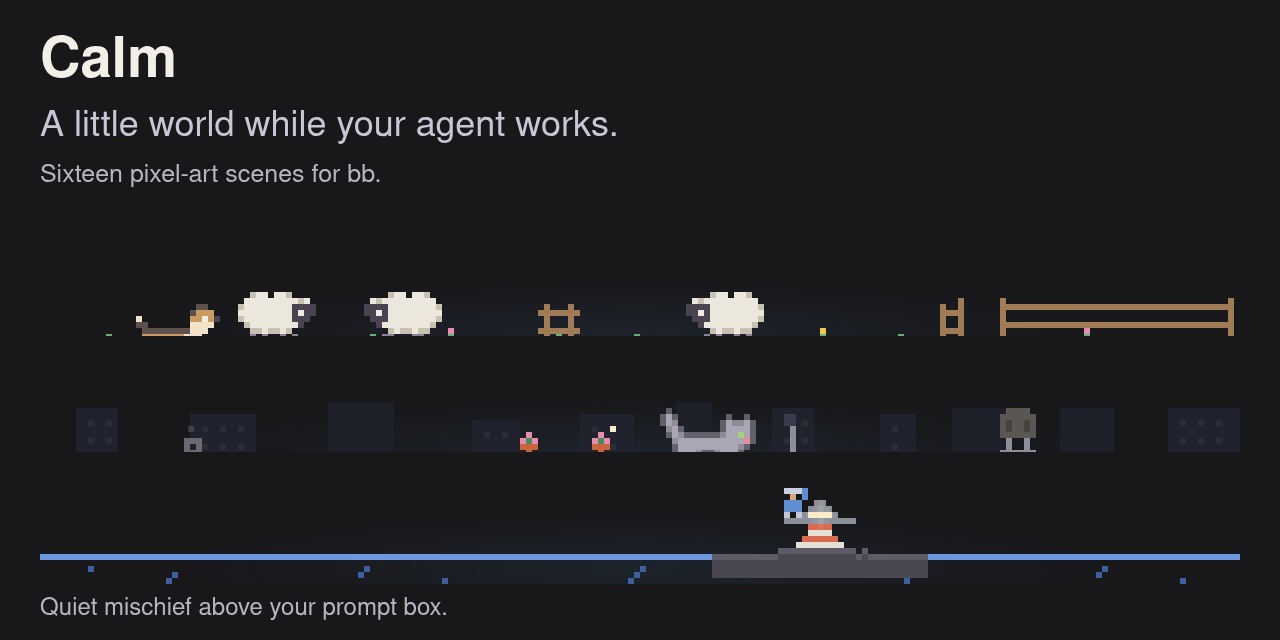
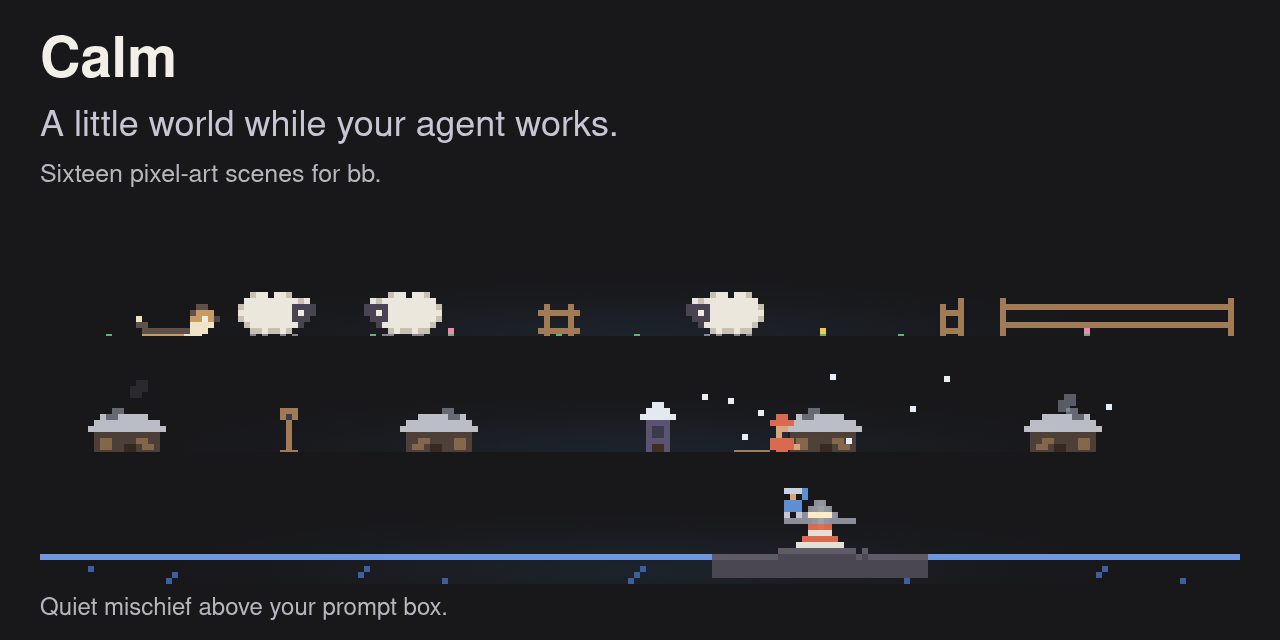
Calm launch preparation: clearer copy and closer scene views

diff --git a/README.md b/README.md
@@ -2,13 +2,13 @@
 
 A little world while your agent works.
 
-Sheep hop fences. A cat nudges a flowerpot off a rooftop. A lighthouse keeper loses his sandwich to a gull. Calm adds sixteen pixel-art scenes above [bb](https://getbb.app)'s prompt box, with small reactions as your agent works and occasional mischief along the way.
+Sheep hop fences. A cat knocks a flowerpot off a rooftop. A lighthouse keeper loses his sandwich to a gull. Calm adds sixteen pixel-art scenes above [bb](https://getbb.app)'s prompt box, with small reactions as your agent works and occasional mischief along the way.
 
 ![Calm scene animation with the pasture, city cat, lighthouse keeper, and pond.](assets/launch/hero.gif)
 
-*Gags shown together here; normally one appears every few minutes of work. These previews use Calm's scene renderer.*
+*Four scenes, with gags shown back-to-back. In real use, one appears every few minutes, with long stretches of calm between.*
 
-[Watch the short film](assets/launch/hero.mp4).
+[Watch the 17-second film](assets/launch/hero.mp4).
 
 It has a job, too. An amber light means your agent needs you. A little rain cloud means something went wrong. When the work ends, the scene disappears.
 
@@ -22,9 +22,11 @@ bb plugin install git:https://github.com/davideiffert/bb-plugin-calm@^1.1.0
 
 Open a thread and send a message. Calm appears above the prompt box while the agent works.
 
-![Calm above bb's prompt box during a demo run.](assets/launch/working.png)
+![Calm above bb's prompt box during a demo run.](assets/launch/working-detail.png)
 
-*A demo thread in bb 0.45, with no real work or accounts attached.*
+*A demo run in bb 0.45. The scene sits above the prompt box until the agent finishes.*
+
+[See the full app view](assets/launch/working.png).
 
 ## A new little world
 
@@ -34,7 +36,7 @@ By default, each run gets a new scene, with no repeats until the mix has gone th
 
 Pasture, Sea, Night sky, Balloon Fiesta, Pond, Train, Garden, Campfire, Underwater, Snowy village, Mountain trail, Kites, Desert roadrunner, City rooftop, Lighthouse, and Space.
 
-Each has three little gags. A frog misses its lily pad. A raccoon makes off with the marshmallows. An astronaut chases a wrench in slow motion. They appear about once every 3 to 5 minutes of work, only while the main agent is working. Switch them off whenever you like.
+Each has three little gags, forty-eight in all. A frog misses its lily pad. A raccoon makes off with the marshmallows. An astronaut chases a wrench in slow motion. They appear about once every 3 to 5 minutes of work, only while the main agent is working. Switch them off whenever you like.
 
 Tap a creature for a silent reaction. The light follows your local clock, long runs deepen toward dusk, and seasons add a small touch. Rare visitors drop by, too.
 
@@ -49,7 +51,7 @@ Tap a creature for a silent reaction. The light follows your local clock, long r
 | Something fails | A little rain cloud appears. |
 | The run finishes | The scene closes. |
 
-Helpers join the scene as sheep, boats, bees, or other small figures. Tap one for details and a silent reaction. When the main agent rests, a small alert appears only for helpers that need you or have failed. Tap a helper in that alert to open its thread.
+When your agent hands work to child threads, they join the scene as helpers: sheep, boats, bees, or other small figures. The settings call this **Crew in scenes**. Tap one for details and a silent reaction. When the main agent rests, a small alert appears only for helpers that need you or have failed. Tap a helper in that alert to open its thread.
 
 ## Make it yours
 

diff --git a/PLUGIN_OVERVIEW.md b/PLUGIN_OVERVIEW.md
@@ -1,6 +1,8 @@
+A little world above bb's prompt box while your agent works. Sixteen pixel-art scenes, a gag every few minutes, and an amber light when it needs you.
+
 ## Small adventures
 
-A sheep gets stuck on a fence. The city cat pushes a flowerpot off the ledge. A gull steals the lighthouse keeper's sandwich.
+A sheep gets stuck on a fence. The city cat knocks a flowerpot off a rooftop. A gull steals the lighthouse keeper's sandwich.
 
 Each of Calm's sixteen scenes has three short gags, with one appearing about every 3 to 5 minutes of work. They are silent, stop while the agent needs you, and can be switched off.
 
@@ -16,9 +18,9 @@ The light follows your local clock. Long runs deepen toward dusk, seasons add a 
 
 The scene plays while your agent works and reacts to completed actions. When it needs your answer, the scene holds and an amber light glows. A rain cloud marks an error. A rate limit lets the scene rest, with the return time when the provider reports it. The scene closes when the run ends.
 
-Helpers join as small figures in their own colors. Tap one for details and a silent reaction. If the main agent rests, a small alert appears only for helpers waiting on you or reporting a failure. Tap a helper in that alert to open its thread.
+Child threads join as helpers, small figures in their own colors. Tap one for details and a silent reaction. If the main agent rests, a small alert appears only for helpers waiting on you or reporting a failure. Tap a helper in that alert to open its thread.
 
-## Your kind of quiet
+## Make it yours
 
 The settings page has live scene tiles and switches for optional touches. Choose Still pictures for stationary art that continues to show the agent's state. Calm follows bb's light or dark mode and your system's reduced-motion setting, and pauses when out of sight.
 
